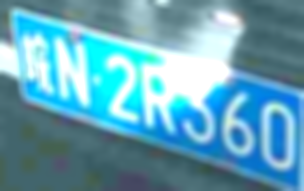
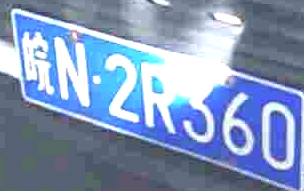
v2

diff --git a/TextRecogDataAugmentation/TextRecogDataAug.py b/TextRecogDataAugmentation/TextRecogDataAug.py
@@ -1,7 +1,7 @@
 # -*- coding=utf-8 -*-
 ##############################################################
 # 包括:
-#     1. hsv通道, 亮度等
+#     1. hsv通道,  饱和度, 色度, 亮度
 #     2. 改变对比度, 光照等
 #     3. 旋转角度
 #     4. 裁剪(随机裁剪某些上下左右四个方向)
@@ -275,10 +275,11 @@ class SwapChannels(object):
         return image
 
 class RandomRotate(object):
-    def __init__(self, rot=10, scale=1.0, prob=0.5):
+    def __init__(self, rot=10, scale=1.0, pad = (125, 125, 125), prob=0.2):
         self.rotate = rot
         self.scale = scale
         self.prob = prob
+        self.pad = pad
         assert self.rotate > 0.0
 
     def __call__(self, img):
@@ -311,11 +312,31 @@ class RandomRotate(object):
             rot_mat[0, 2] += rot_move[0]
             rot_mat[1, 2] += rot_move[1]
             # 仿射变换
-            rot_img = cv2.warpAffine(img, rot_mat, (int(math.ceil(nw)), int(math.ceil(nh))), flags=cv2.INTER_LANCZOS4)
+            rot_img = cv2.warpAffine(img, rot_mat, (int(math.ceil(nw)), int(math.ceil(nh))), flags=cv2.INTER_LANCZOS4, borderValue=self.pad)
 
             return rot_img
         else:
             return img
+
+class RandomAffine(object):
+    def __init__(self, w_scale = 0.07, h_scale = 0.07, pad = (125, 125, 125), prob=0.3):
+        self.w_scale = w_scale
+        self.h_scale = h_scale
+        self.pad = pad
+        self.prob = prob
+
+    def __call__(self, image):
+        if is_aug(self.prob):
+            h, w, c = image.shape
+            w_scale = random.uniform(0, self.w_scale)
+            h_scale = random.uniform(0, self.h_scale)
+            pts1 = np.float32([[0, 0], [w - 1, 0], [0, h - 1]])
+            pts2 = np.float32([[w * w_scale, h * h_scale], [w * (1 - w_scale), h * h_scale], [w * w_scale, h * (1- h_scale)]])
+
+            M = cv2.getAffineTransform(pts1, pts2)
+            image = cv2.warpAffine(image, M, (w, h), borderValue=self.pad)
+
+        return image
 
 class CutOut(object):#随机加黑斑
     def __init__(self, scale=0.5, n_holes=1, mask_value=125, prob = 0.5):
@@ -405,7 +426,7 @@ class AdjustJpgQuality(object):
             image = cv2.resize(image, (w, h))
         return image
 
-class PhotometricDistort(object):
+class PhotometricDistort(object):#亮度对比度, 饱和度, 色度
     def __init__(self, prob=0.5):
         self.pd = [
             RandomContrast(),    #对比度
@@ -428,14 +449,27 @@ class PhotometricDistort(object):
         im = distort(im)
         return im
 
+class RotateOrAffine(object):#旋转或者透视变换
+    def __init__(self, pad = (238, 103, 103)):
+        self.rand_rotate = RandomRotate(pad = pad)
+        self.rand_affine = RandomAffine(pad = pad)
+
+    def __call__(self, image):
+        if is_aug(0.5):
+            image = self.rand_rotate(image)
+        else:
+            image = self.rand_affine(image)
+        return image
+
 class Policy1(object):
     def __init__(self):
         self.augment = Compose([
             ConvertFromInts(),
+            RotateOrAffine(),
             PhotometricDistort(),
             AdjustJpgQuality(prob = 0.5),
             Gasuss_blur(prob = 0.2),
-            #RandomRotate(),
+            #RandomRotate(pad=(255, 0, 0)),
 
         ])
 
@@ -465,6 +499,7 @@ if __name__ == '__main__':
 
         #show_pic(img, coords)  # 原图
         aug1 = Policy1()
+        aff = RotateOrAffine()
 
 
         crop = RandomSampleCrop()
@@ -475,4 +510,5 @@ if __name__ == '__main__':
             auged_img= aug1(img)
             #auged_img= crop(im)
             #auged_img = qual(im)
+            #auged_img = aff(img)
             show_pic(auged_img, 'policy1/' + str(i)+path)  # 强化后的图
